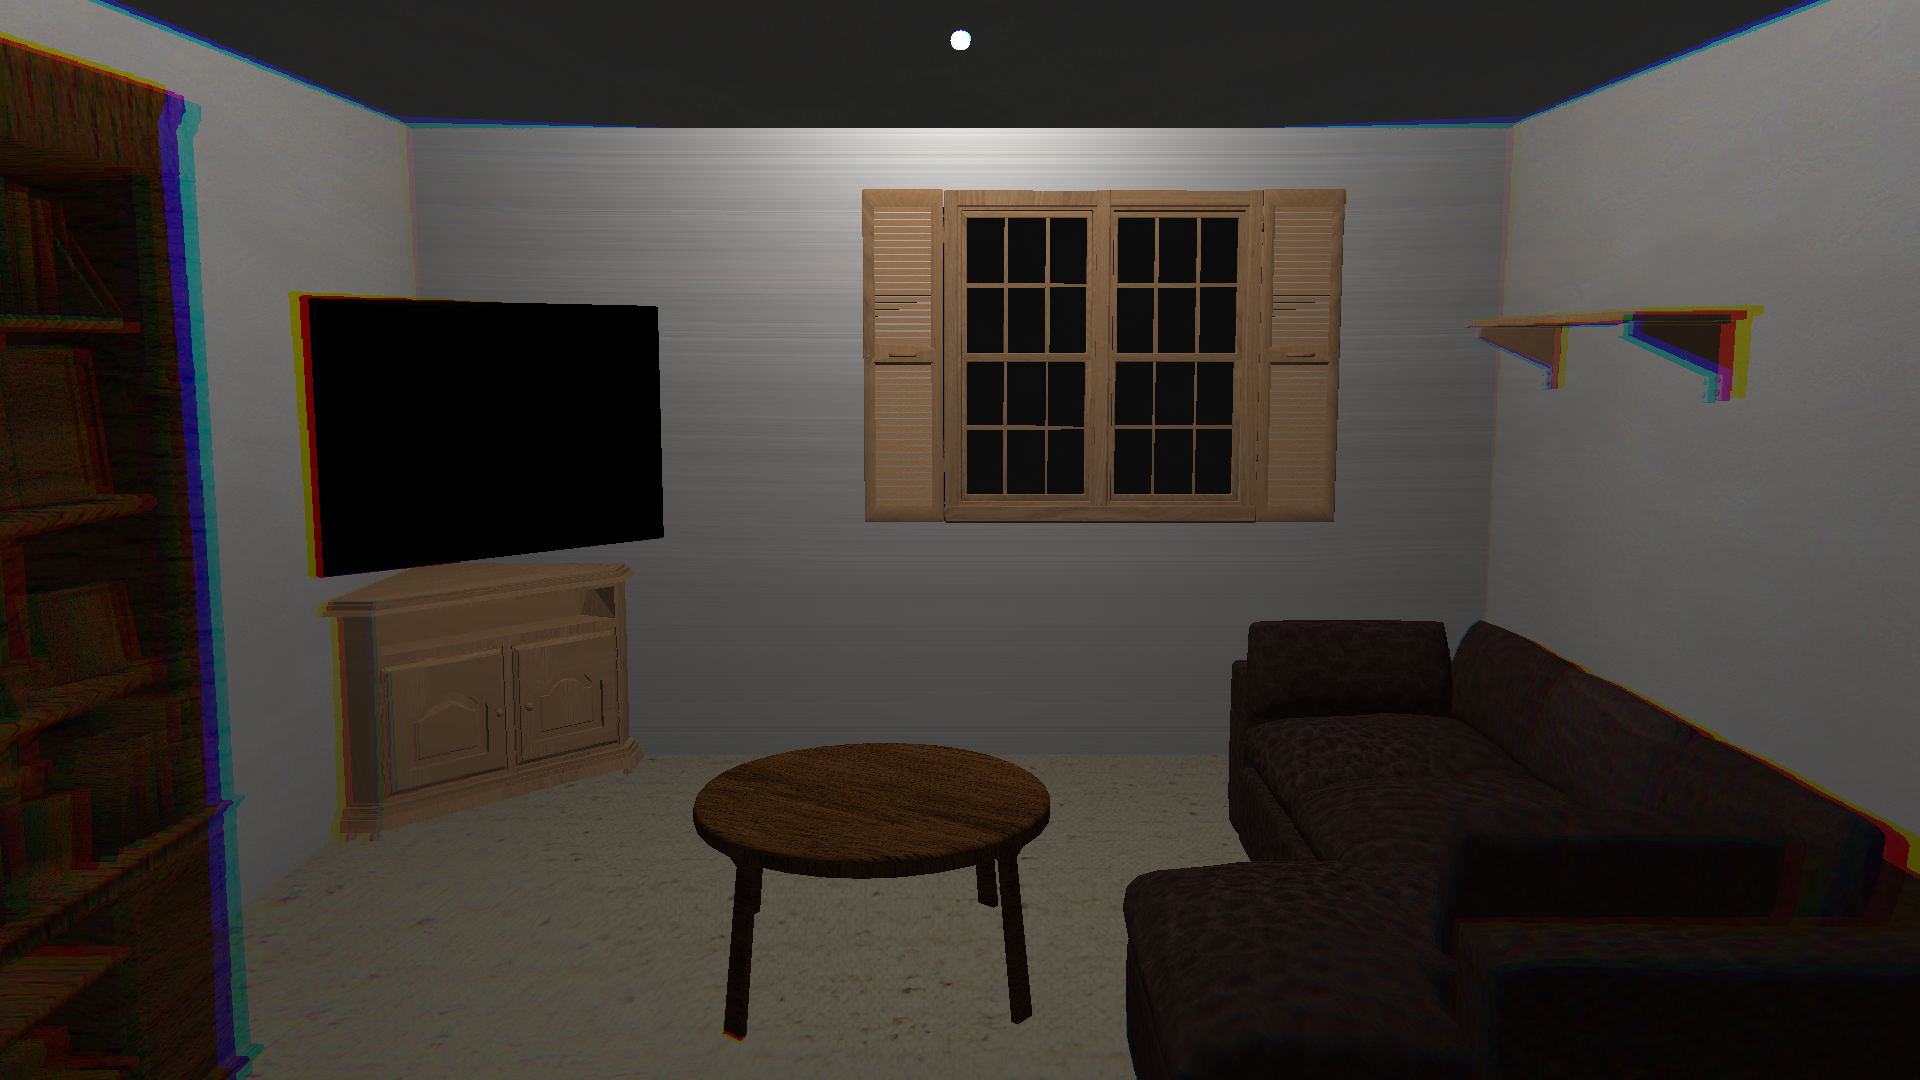
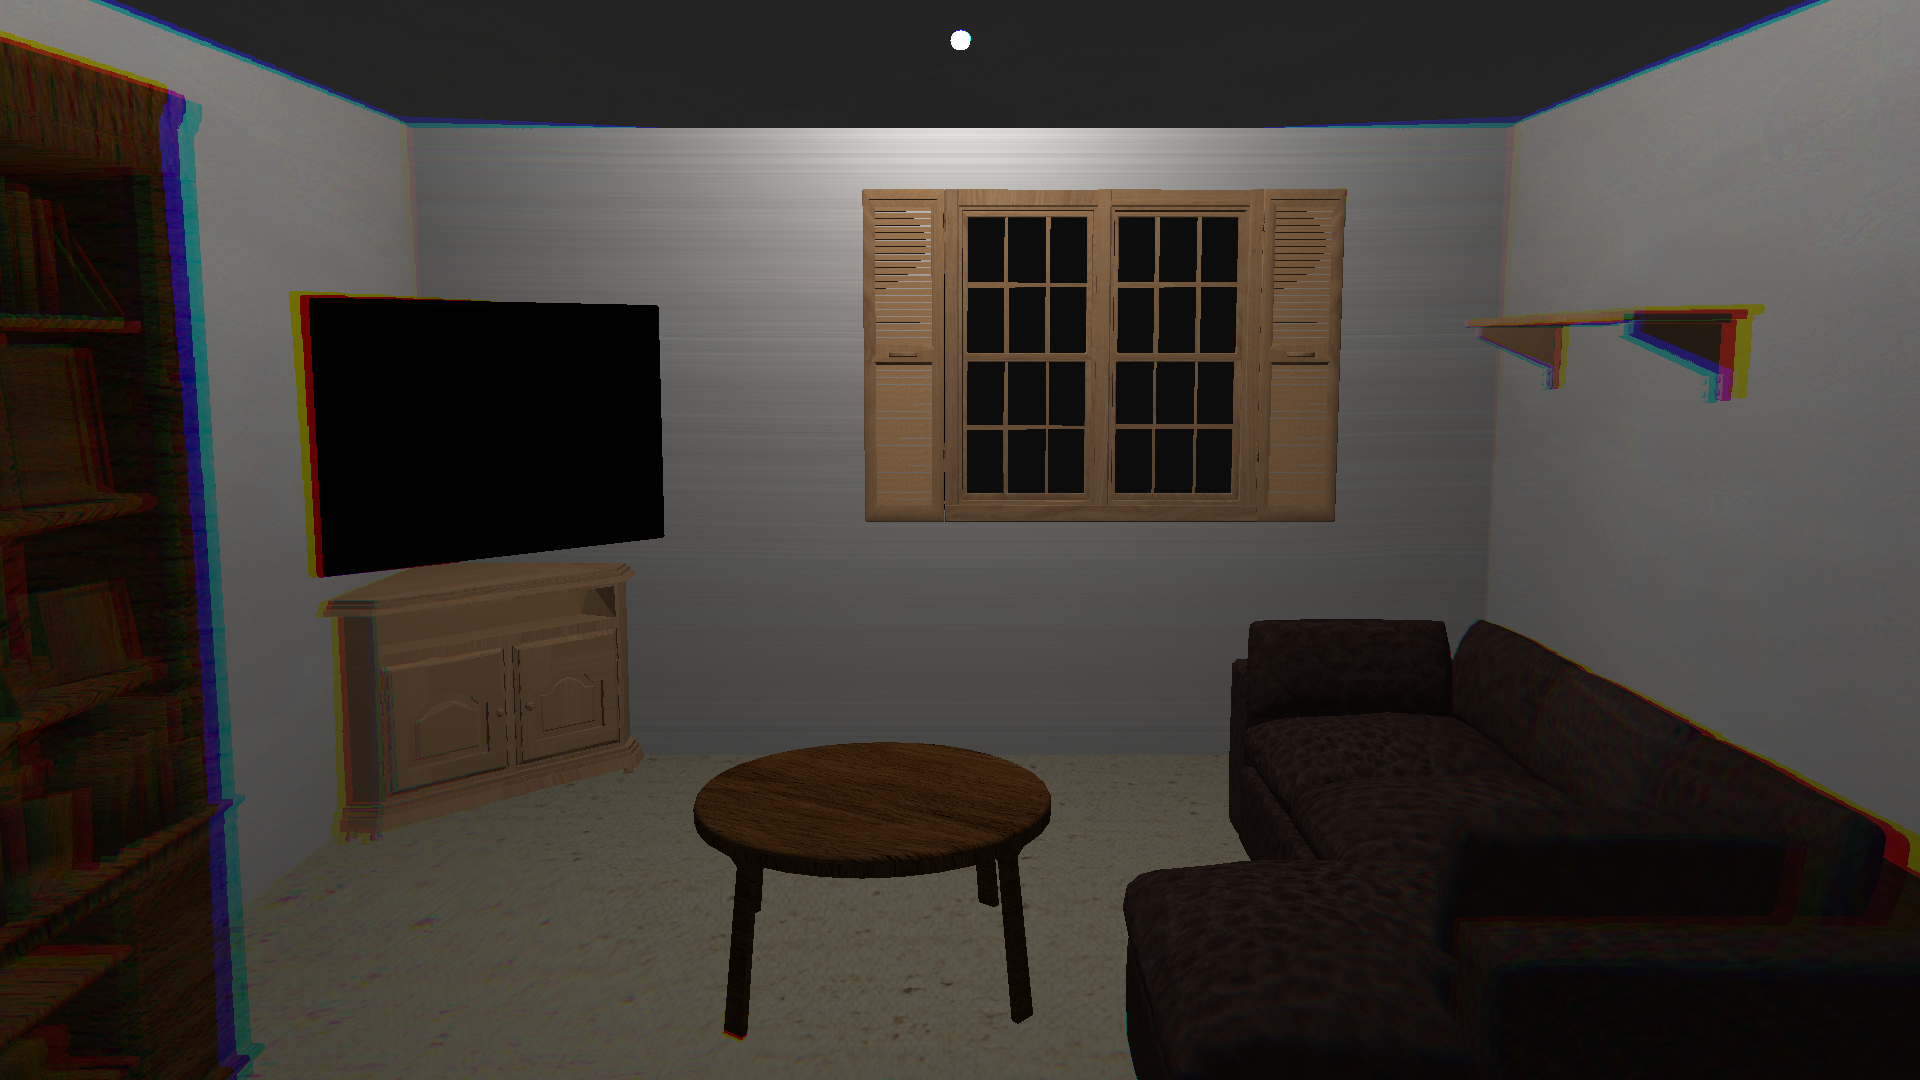
Implemented Anti-Aliasing
Rasteriser
- Implemented Anti-Aliasing

- Updated Rendered_images

diff --git a/Coursework/Rasteriser/source/TriangleRenderer.hpp b/Coursework/Rasteriser/source/TriangleRenderer.hpp
@@ -42,104 +42,138 @@ void drawTriangle(std::vector<uint8_t>& image, int width, int height,
 		return;
 	}
 
+	// Create 4 pre-defined sub-pixel sample locations (2x2 SSAA grid)
+	std::vector<Eigen::Vector2f> sampleOffsets;
+	sampleOffsets.push_back(Eigen::Vector2f(0.25f, 0.25f));
+	sampleOffsets.push_back(Eigen::Vector2f(0.75f, 0.25f));
+	sampleOffsets.push_back(Eigen::Vector2f(0.25f, 0.75f));
+	sampleOffsets.push_back(Eigen::Vector2f(0.75f, 0.75f));
+
 	for (int x = minX; x <= maxX; ++x)
 		for (int y = minY; y <= maxY; ++y) {
-			Eigen::Vector2f p(x, y);
+			// Supersampling Anti-Aliasing (SSAA) variables
+			Eigen::Vector3f totalColor(0.0f, 0.0f, 0.0f);	// Create a total colour variable
+			// Set the initial closest depth to the highest value possible
+			float closestDepth = std::numeric_limits<float>::infinity();
+			int validSamples = 0;
 
-			// Find sub-triangle areas
-			float a0 = 0.5f * fabsf(vec2Cross(v2(t.screen[1]) - v2(t.screen[2]), p - v2(t.screen[2])));
-			float a1 = 0.5f * fabsf(vec2Cross(v2(t.screen[0]) - v2(t.screen[2]), p - v2(t.screen[2])));
-			float a2 = 0.5f * fabsf(vec2Cross(v2(t.screen[0]) - v2(t.screen[1]), p - v2(t.screen[1])));
+			// For each sample
+			for (int s = 0; s < sampleOffsets.size(); s++) {
+				// Work out the point
+				Eigen::Vector2f p(x + sampleOffsets[s].x(), y + sampleOffsets[s].y());
 
-			// find barycentrics
-			float b0 = a0 / triangleArea;
-			float b1 = a1 / triangleArea;
-			float b2 = a2 / triangleArea;
+				// Find sub-triangle areas
+				float a0 = 0.5f * fabsf(vec2Cross(v2(t.screen[1]) - v2(t.screen[2]), p - v2(t.screen[2])));
+				float a1 = 0.5f * fabsf(vec2Cross(v2(t.screen[0]) - v2(t.screen[2]), p - v2(t.screen[2])));
+				float a2 = 0.5f * fabsf(vec2Cross(v2(t.screen[0]) - v2(t.screen[1]), p - v2(t.screen[1])));
 
-			// If outside triangle, exit early
-			float sum = b0 + b1 + b2;
-			if (sum > 1.0001) {
-				continue;
+				// find barycentrics
+				float b0 = a0 / triangleArea;
+				float b1 = a1 / triangleArea;
+				float b2 = a2 / triangleArea;
+
+				// If outside triangle, exit early
+				float sum = b0 + b1 + b2;
+				if (sum > 1.0001) {
+					continue;
+				}
+
+				Eigen::Vector3f worldP = t.verts[0] * b0 + t.verts[1] * b1 + t.verts[2] * b2;
+
+				// Perform depth testing (Z-buffering) to ensure only the closest triangle is drawn
+				// Depth per sample
+				float depth = t.screen[0].z() * b0 + t.screen[1].z() * b1 + t.screen[2].z() * b2;
+				
+				if (depth < closestDepth) {
+					closestDepth = depth;
+				}
+
+				Eigen::Vector3f normP = t.norms[0] * b0 + t.norms[1] * b1 + t.norms[2] * b2;
+				normP.normalize();
+
+				// Calculate the texture coordinates corresponding to P, texP using barycentric interpolation
+				Eigen::Vector2f texP = t.texs[0] * b0 + t.texs[1] * b1 + t.texs[2] * b2;
+
+				// Convert the coordinate to a point in texture space
+				int texR = (1.0f - texP.y()) * (texHeight - 1);		// Row index
+				int texC = texP.x() * (texWidth - 1);				// Column index
+
+				// Clamp texR and texC to the image bounds
+				if (texR >= texHeight) texR = texHeight - 1;
+				if (texR < 0) texR = 0;
+				if (texC >= texWidth) texC = texWidth - 1;
+				if (texC < 0) texC = 0;
+
+				// Get the value from the texture using the getPixel function on the albedoTexture
+				Color texColor{ getPixel(albedoTexture, texC, texR, texWidth, texHeight) };
+
+				// Normalise the values
+				float linR = texColor.r / 255.0f;
+				float linG = texColor.g / 255.0f;
+				float linB = texColor.b / 255.0f;
+
+				// Use 2.2 to convert from the display space (gamma-encoded) into linear space (correct light physics)
+				float r = pow(linR, 2.2);
+				float g = pow(linG, 2.2);
+				float b = pow(linB, 2.2);
+
+				// Convert it into an Eigen::Vector3f as an albedo
+				Eigen::Vector3f albedo = Eigen::Vector3f(r, g, b);
+
+				// Work out colour at this position.
+				Eigen::Vector3f color = Eigen::Vector3f::Zero();
+
+				// Iterate over lights, and sum to find colour.
+				for (auto& light : lights) {
+
+					// Work out the contribution from this light source, and add it to the color variable.
+
+					// Work out the intensity of this light source, at the point worldP.
+					Eigen::Vector3f lightIntensity = light->getIntensityAt(worldP);
+
+					// We only need to do the following if the light isn't an ambient light.
+					if (light->getType() != Light::Type::AMBIENT) {
+
+						Eigen::Vector3f lightPos = light->getLightLocation();
+						// Work out the incoming light dir (from the light into the surface point).
+						Eigen::Vector3f incomingLightDir = (lightPos - worldP).normalized();
+						// Work out the view direction (from surface point towards camera). Make sure it's normalized!
+						Eigen::Vector3f viewDir = (camWorldPos - worldP).normalized();
+
+						// Dynamically calculating the light contribution using the materials specific virtual shade function
+						Eigen::Vector3f contribution = material->shade(normP, viewDir, incomingLightDir, lightIntensity);
+						// Apply the texture (albedo) to the light contribution
+						color += contribution.cwiseProduct(albedo);
+					}
+					// If the light is ambient light there is no light direction
+					else {
+						Eigen::Vector3f viewDir = (camWorldPos - worldP).normalized();
+						Eigen::Vector3f contribution = material->shade(normP, viewDir, Eigen::Vector3f::Zero(), lightIntensity);
+						color += contribution.cwiseProduct(albedo);
+					}
+				}
+
+				// Add the colour of the sample calculated to the total colour
+				totalColor += color;
+				// Increment the number of valid samples
+				validSamples++;
 			}
 
-			Eigen::Vector3f worldP = t.verts[0] * b0 + t.verts[1] * b1 + t.verts[2] * b2;
+			// If there are no valid samples, return nothing (black)
+			if (validSamples == 0) continue;
 
-			// Perform depth testing (Z-buffering) to ensure only the closest triangle is drawn
-			float depth = t.screen[0].z() * b0 + t.screen[1].z() * b1 + t.screen[2].z() * b2;
-			int depthIdx = static_cast<int>(p.x()) + static_cast<int>(p.y()) * width;
-			if (depth > zBuffer[depthIdx]) continue;
-			zBuffer[depthIdx] = depth;
+			// Divide the total colour by the number of samples to get an average
+			Eigen::Vector3f finalColor = totalColor / validSamples;
 
-			Eigen::Vector3f normP = t.norms[0] * b0 + t.norms[1] * b1 + t.norms[2] * b2;
-			normP.normalize();
-
-			// Calculate the texture coordinates corresponding to P, texP using barycentric interpolation
-			Eigen::Vector2f texP = t.texs[0] * b0 + t.texs[1] * b1 + t.texs[2] * b2;
-
-			// Convert the coordinate to a point in texture space
-			int texR = (1.0f - texP.y()) * (texHeight - 1);		// Row index
-			int texC = texP.x() * (texWidth - 1);				// Column index
-
-			// Clamp texR and texC to the image bounds
-			if (texR >= texHeight) texR = texHeight - 1;
-			if (texR < 0) texR = 0;
-			if (texC >= texWidth) texC = texWidth - 1;
-			if (texC < 0) texC = 0;
-
-			// Get the value from the texture using the getPixel function on the albedoTexture
-			Color texColor{ getPixel(albedoTexture, texC, texR, texWidth, texHeight) };
-
-			// Normalise the values
-			float linR = texColor.r / 255.0f;
-			float linG = texColor.g / 255.0f;
-			float linB = texColor.b / 255.0f;
-
-			// Use 2.2 to convert from the display space (gamma-encoded) into linear space (correct light physics)
-			float r = pow(linR, 2.2);
-			float g = pow(linG, 2.2);
-			float b = pow(linB, 2.2);
-
-			// Convert it into an Eigen::Vector3f as an albedo
-			Eigen::Vector3f albedo = Eigen::Vector3f(r, g, b);
-
-			// Work out colour at this position.
-			Eigen::Vector3f color = Eigen::Vector3f::Zero();
-
-			// Iterate over lights, and sum to find colour.
-			for (auto& light : lights) {
-
-				// Work out the contribution from this light source, and add it to the color variable.
-
-				// Work out the intensity of this light source, at the point worldP.
-				Eigen::Vector3f lightIntensity = light->getIntensityAt(worldP);
-
-				// We only need to do the following if the light isn't an ambient light.
-				if (light->getType() != Light::Type::AMBIENT) {
-
-					Eigen::Vector3f lightPos = light->getLightLocation();
-					// Work out the incoming light dir (from the light into the surface point).
-					Eigen::Vector3f incomingLightDir = (lightPos - worldP).normalized();
-					// Work out the view direction (from surface point towards camera). Make sure it's normalized!
-					Eigen::Vector3f viewDir = (camWorldPos - worldP).normalized();
-					
-					// Dynamically calculating the light contribution using the materials specific virtual shade function
-					Eigen::Vector3f contribution = material->shade(normP, viewDir, incomingLightDir, lightIntensity);
-					// Apply the texture (albedo) to the light contribution
-					color += contribution.cwiseProduct(albedo);
-				}
-				// If the light is ambient light there is no light direction
-				else {
-					Eigen::Vector3f viewDir = (camWorldPos - worldP).normalized();
-					Eigen::Vector3f contribution = material->shade(normP, viewDir, Eigen::Vector3f::Zero(), lightIntensity);
-					color += contribution.cwiseProduct(albedo);
-				}
-			}
+			int depthIdx = x + y * width;
+			if (closestDepth > zBuffer[depthIdx]) continue;
+			zBuffer[depthIdx] = closestDepth;
 
 			Color c;
 			// Gamma-correcting colours.
-			c.r = std::min(powf(color.x(), 1 / 2.2f), 1.0f) * 255;
-			c.g = std::min(powf(color.y(), 1 / 2.2f), 1.0f) * 255;
-			c.b = std::min(powf(color.z(), 1 / 2.2f), 1.0f) * 255;
+			c.r = std::min(powf(finalColor.x(), 1 / 2.2f), 1.0f) * 255;
+			c.g = std::min(powf(finalColor.y(), 1 / 2.2f), 1.0f) * 255;
+			c.b = std::min(powf(finalColor.z(), 1 / 2.2f), 1.0f) * 255;
 
 			c.a = 255;
 

diff --git a/Coursework/Raytracer/main.cpp b/Coursework/Raytracer/main.cpp
@@ -192,7 +192,7 @@ int main(int argc, char* argv[]) {
 
 	auto startTime = std::chrono::steady_clock::now();
 
-	// Anti-Aliasing (AA) variables
+	// Anti-Aliasing using stochastic supersampling (SSAA)
 	// Reducing the number of samples reduces the affect of the AA but increases the render time
 	// Increasing the num of samples increases the affect of AA but increases render time
 	int samplesPerPixel = 32;
@@ -206,7 +206,7 @@ int main(int argc, char* argv[]) {
 
 			// For each sample taken per pixel
 			for (int s = 0; s < samplesPerPixel; s++) {
-				// Generate a random jittered X and Y values
+				// Generate a random jittered pixel offsets (stochastic SSAA)
 				float jitterX = x + randomFloat() - 0.5f;
 				float jitterY = scanlines[y] + randomFloat() - 0.5f;
 